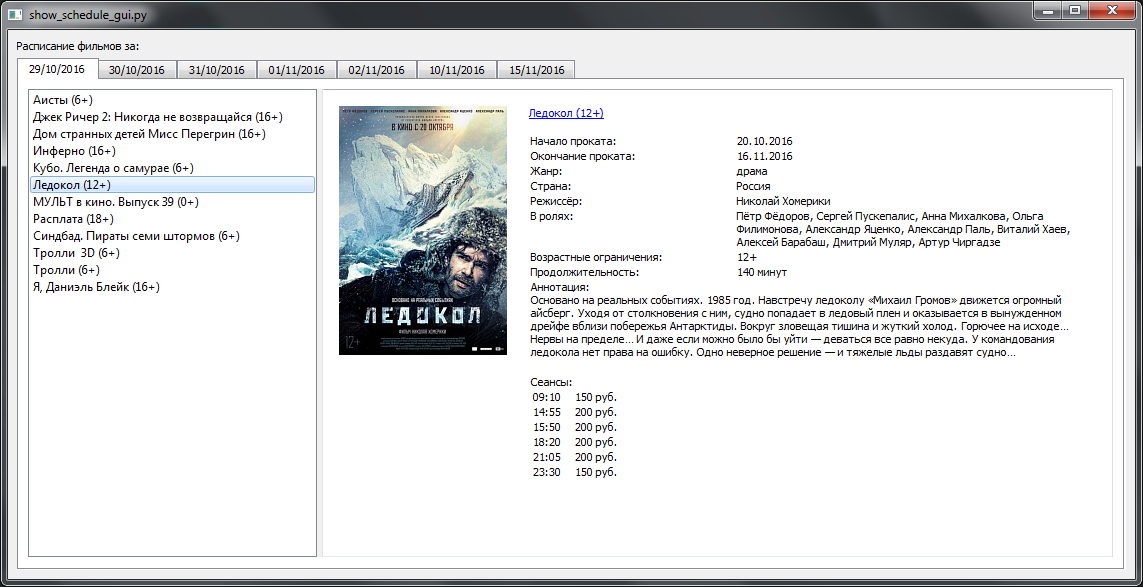
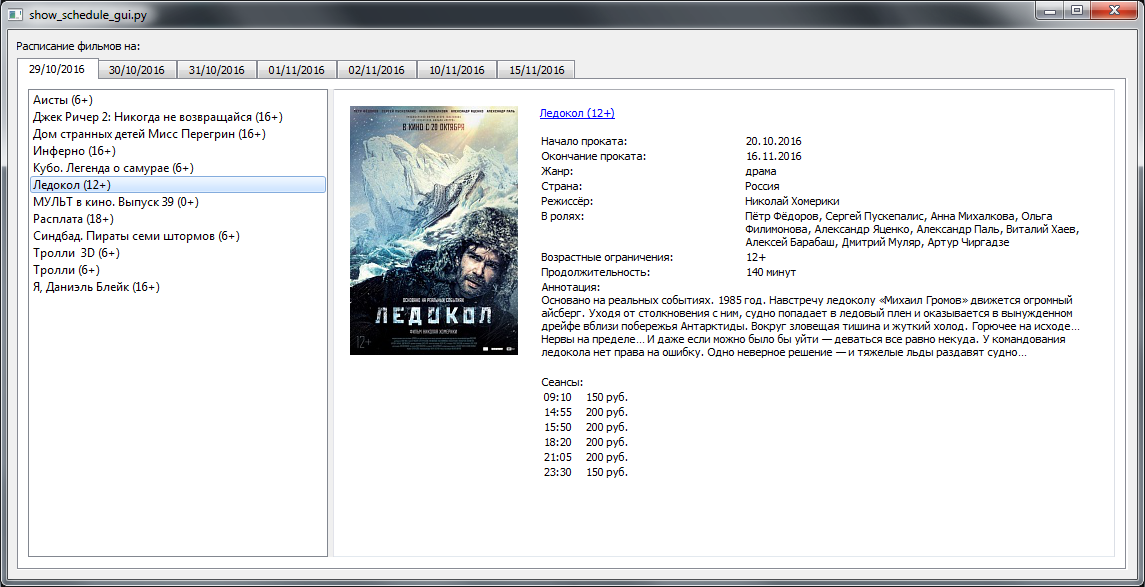
#

diff --git a/jazzcinema_ru/show_schedule_gui/main.py b/jazzcinema_ru/show_schedule_gui/main.py
@@ -203,7 +203,7 @@ class MainWindow(QMainWindow):
         self.tab_widget = QTabWidget()
 
         layout = QVBoxLayout()
-        layout.addWidget(QLabel('Расписание фильмов за:'))
+        layout.addWidget(QLabel('Расписание фильмов на:'))
         layout.addWidget(self.tab_widget)
 
         widget = QWidget()
